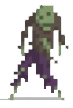
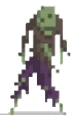
Added gifs, conceptual questions, and boldened all links

diff --git a/index.html b/index.html
@@ -72,9 +72,9 @@
                 <div class="container">
                     <!-- <div class="col col-md-16"></div> -->
                     <div class="img-row">
-                      <img class="section-title-img small-img" src="img/zombie1.png">
-                      <img class="section-title-img large-img" src="img/doeppner_art.png">
-                      <img class="section-title-img small-img" src="img/zombie3.png">
+                      <img class="section-title-img small-img" src="img/zombie1.gif">
+                      <img class="section-title-img large-img" src="img/dancing_doeppner.gif">
+                      <img class="section-title-img small-img" src="img/zombie2.gif">
                     </div>
 
                     <h1 class="brand-heading">
@@ -100,8 +100,7 @@
             <div class="row">
                 <div class="col-md-12">
                     <h2 class="section-title">Course Information
-                      <img class="section-title-img small-img" src="img/zombie2.png">
-                      <img class="section-title-img" src="img/zombie-sprite.png">
+                      <img class="section-title-img small-img" src="img/zombie3.gif">
                     </h2>
                     <!--        <section id="course-info">-->
                     <!--            <div class="row section-header">-->
@@ -130,11 +129,12 @@
                         <blockquote>"High-level computer architecture and systems programming. <br/>
                             <br/>
                             The course covers organization of computer systems (in terms of storage units, caches, processors, and I/O
-                            controllers) and teaches students assembly-language programming and C language
-                            programming. <br/>
+                            controllers) and teaches students assembly-language and C language programming.
+                            <br/>
                             Extensive programming exercises introduce students to systems-level
                             programming on Linux systems, as well as to multithreaded programming with POSIX
-                            threads. <br/>
+                            threads.
+                            <br/>
                             Students will learn the basics of how compilers work and will be introduced to
                             the functions of operating systems."</blockquote>
                         <tagline> – Course Announcement</tagline>
@@ -203,8 +203,7 @@
             <div class="row">
                 <div class="col-md-12">
                     <h2 class="section-title">Assignments
-                      <img class="section-title-img small-img" src="img/zombie1.png">
-                      <img class="section-title-img small-img" src="img/zombie2.png">
+                      <img class="section-title-img small-img" src="img/zombie4.gif">
                     </h2>
                     <p>If you're looking for hours for projects or labs, please see <a class="page-scroll"
                             href="#hours">hours &rarr;</a></p>
@@ -397,8 +396,7 @@
             <div class="row">
                 <div class="col-md-10">
                     <h2 class="section-title">Lectures
-                      <img class="section-title-img" src="img/zombie-sprite.png">
-                      <img class="section-title-img small-img" src="img/zombie1.png">
+                      <img class="section-title-img small-img" src="img/zombie1.gif">
                     </h2>
                     <p>Lectures are held every Monday, Wednesday, and Friday at MacMillan 117. They are recorded on Panopto and will be uploaded after each lecture.</p>
                     <table class="lecture">
@@ -1654,8 +1652,7 @@
     <section id="hours">
         <div class="container content-section">
             <h2 class="section-title">Hours
-              <img class="section-title-img small-img" src="img/zombie3.png">
-              <img class="section-title-img small-img" src="img/zombie2.png">
+              <img class="section-title-img small-img" src="img/zombie2.gif">
             </h2>
             <div class="row">
 
@@ -1682,8 +1679,16 @@
                     <h3>TA Hours</h3>
                     <p>During TA hours, you'll be able to get help from TAs with course concepts as well as project and
                         lab-specific questions. Note that you may not ask questions about labs in project hours (and
-                        vice versa) or have a lab checked off during project hours. During conceptual hours, you may not
-                        bring up code-specific questions.</p>
+                        vice versa).</p>
+                    <p>During conceptual hours, you may not bring up code-specific questions. This would be a time to 
+                        get clarification on course concepts so you can better apply them to projects.</p>
+                    <p>Some example questions for conceptual hours:
+                        <ul>
+                            <li>What's the difference between * and & and in what situations should I use them?</li>
+                            <li>I'm having trouble visualizing what's going on in the stack during a buffer overflow attack.</li>
+                            <li>What happens to blocks on the heap when I call malloc?</li>
+                        </ul>
+                    </p>
                     <h3>Signing Up</h3>
                     <p>Sign up for TA hours via <a href="http://hours.cs.brown.edu/" target="_blank">Hours</a>.</p>
 
@@ -1703,9 +1708,7 @@
     <section id="staff">
         <div class="container content-section staff">
             <h2 class="section-title">Staff
-              <img class="section-title-img small-img" src="img/zombie2.png">
-              <img class="section-title-img" src="img/zombie-sprite.png">
-              <img class="section-title-img small-img" src="img/zombie1.png">
+              <img class="section-title-img small-img" src="img/dancing_doeppner.gif">
             </h2>
             <h3 class="prof-text">Professor</h3>
             <div class="staff-flexbox">
@@ -1765,10 +1768,9 @@
                     <p class="ta-login">hluby</p>
                     <p class="ta-pronouns">She/Her</p>
                     <p class="ta-bio">
-                        Hi everyone! I'm a senior studying CS and I'm from Phoenix, AZ.
-                        Outside of school, I'm a big movie buff and would love any recommendations
-                        you may have (my fav zombie movie is 28 Days Later!). I'm incredibly excited
-                        to be your HTA this semester :)
+                        Hello! I'm a senior studying CS from Phoenix, AZ.
+                        I love coffee and watching all types of movies (my fav zombie movie is 28 Days Later!).
+                        Incredibly excited to be your HTA :D
                     </p>
                 </div>
 
@@ -1824,7 +1826,7 @@
                 <div class="ta-member">
                     <div class="ta-img">
                         <img class="ta-profile" src="img/people/czhan152_1.jpg">
-                        <img class="ta-item" src="img/people/czhan152_2.jpg">
+                        <img class="ta-item" src="img/people/czhan152_1.jpg">
                     </div>
                     <h3 class="ta-name">Camille	Zhang</h3>
                     <p class="ta-login">czhan152</p>

diff --git a/css/cs33.css b/css/cs33.css
@@ -348,12 +348,23 @@ td, th {
 #lectures a {
   color: var(--body-text-color);
   border-radius: 5px;
-  background-color: rgb(233 233 233 / 50%);
-  padding: 0px 4px;
+  font-weight: bold;
+  /* background-color: rgb(233 233 233 / 50%); */
+  /* padding: 0px 4px; */
 }
 
 #hours {
   background-color: var(--green-bg);
+}
+
+#hours a {
+  color: var(--body-text-color);
+  border-radius: 5px;
+  font-weight: bold;
+}
+
+#hours a:hover {
+  color: #69605a;
 }
 
 #staff {
@@ -361,12 +372,6 @@ td, th {
   background-color: var(--camo-gray);
   width: 100%;
   align-items: center;
-}
-
-#staff h2 {
-  /*color: #000;*/
-  /*color: #fff;*/
-  /*font-family: "Montserrat", serif;*/
 }
 
 #staff h4 {
@@ -565,7 +570,7 @@ footer a {
 }
 
 .hamburger-icon {
-  color: #323c18'
+  color: #323c18
 
 }
 
